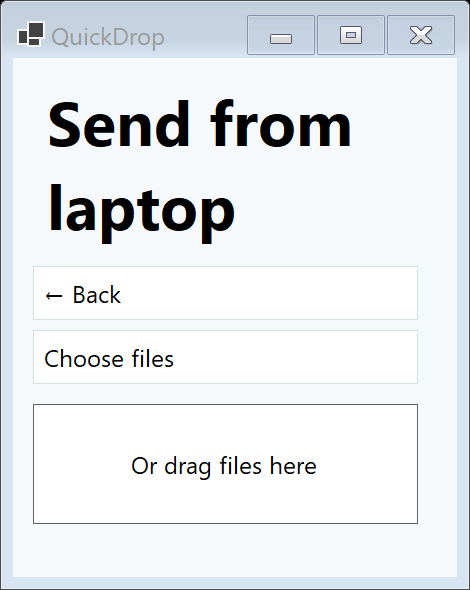
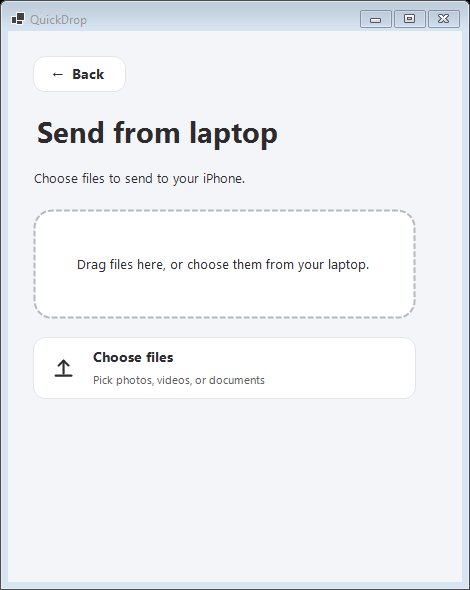
Polish transfer window to match QuickPlan styling

Changed region(s): [[0.0, 0.0, 0.983, 1.0], [0.3574, 0.7627, 0.6851, 0.8237], [0.2681, 0.7627, 0.3277, 0.8237]]

diff --git a/native/MainForm.cs b/native/MainForm.cs
@@ -11,13 +11,14 @@ internal sealed class MainForm : Form
     private const int HotkeyId = 0x5144;
     private const uint HotkeyMods = 0x0003; // Ctrl+Alt, distinct from QuickPlan's Alt+S.
     private const uint HotkeyKey = 0x51; // Q
-    private readonly FlowLayoutPanel content = new() { Dock = DockStyle.Fill, FlowDirection = FlowDirection.TopDown, WrapContents = false, AutoScroll = true, Padding = new Padding(20) };
+    private readonly FlowLayoutPanel content = new() { Dock = DockStyle.Fill, FlowDirection = FlowDirection.TopDown, WrapContents = false, AutoScroll = true, Padding = new Padding(24) };
     private readonly NotifyIcon tray;
     private readonly string settingsFile = Path.Combine(Environment.GetFolderPath(Environment.SpecialFolder.LocalApplicationData), "QuickDrop", "settings.json");
     private TransferServer? transfer;
     private string? previousFolder;
     private bool exitRequested;
     private Label status = new();
+    private string[] selectedFiles = [];
 
     [DllImport("user32.dll", SetLastError = true)] private static extern bool RegisterHotKey(IntPtr window, int id, uint modifiers, uint key);
     [DllImport("user32.dll")] private static extern bool UnregisterHotKey(IntPtr window, int id);
@@ -25,9 +26,10 @@ internal sealed class MainForm : Form
     public MainForm()
     {
         Text = "QuickDrop";
-        Width = 470; Height = 590; MinimumSize = new Size(400, 500);
+        Width = 470; Height = 590; MinimumSize = new Size(440, 520);
         StartPosition = FormStartPosition.CenterScreen;
-        BackColor = Color.FromArgb(246, 249, 251);
+        BackColor = Ui.Paper;
+        Font = new Font("Segoe UI", 10);
         AllowDrop = true;
         Controls.Add(content);
         try { previousFolder = JsonSerializer.Deserialize<LocalSettings>(File.ReadAllText(settingsFile))?.PreviousFolder; } catch { }
@@ -72,7 +74,7 @@ internal sealed class MainForm : Form
     private void ShowPopup() { if (WindowState == FormWindowState.Minimized) WindowState = FormWindowState.Normal; Show(); Activate(); }
     private string DefaultFolder => Path.Combine(Environment.GetFolderPath(Environment.SpecialFolder.MyDocuments), "QuickDrop", "sentFiles");
 
-    private void Clear(string heading)
+    private void Clear(string heading, bool back = false)
     {
         foreach (Control old in content.Controls.Cast<Control>().ToArray())
         {
@@ -80,61 +82,79 @@ internal sealed class MainForm : Form
             old.Dispose();
         }
         content.Controls.Clear();
-        content.Controls.Add(new Label { Text = heading, Font = new Font(Font.FontFamily, 23, FontStyle.Bold), AutoSize = true, Margin = new Padding(0, 0, 0, 20) });
-        status = new Label { AutoSize = true, MaximumSize = new Size(385, 0), ForeColor = Color.FromArgb(100, 40, 50), Margin = new Padding(0, 15, 0, 0) };
+        if (back) AddButton("←  Back", ShowHome, Ui.White, compact: true, height: 38, width: 95, margin: new Padding(0, 0, 0, 18));
+        content.Controls.Add(new Label { Text = heading, Font = new Font("Segoe UI", 22, FontStyle.Bold), ForeColor = Ui.Ink, AutoSize = true, Margin = new Padding(0, 0, 0, 12) });
+        status = new Label { AutoSize = true, MaximumSize = new Size(380, 0), ForeColor = Color.FromArgb(130, 55, 60), Margin = new Padding(0, 15, 0, 0), Font = new Font("Segoe UI", 9) };
     }
 
-    private Button Button(string label, Action action)
+    private TileButton AddButton(string label, Action action, Color fill, string subtitle = "", string icon = "", bool compact = false, int height = 76, int width = 385, Padding? margin = null)
     {
-        var button = new Button { Text = label, Width = 385, Height = 54, TextAlign = ContentAlignment.MiddleLeft, BackColor = Color.White, FlatStyle = FlatStyle.Flat, Margin = new Padding(0, 0, 0, 10) };
-        button.FlatAppearance.BorderColor = Color.FromArgb(210, 225, 230);
+        var button = new TileButton { Text = label, Width = width, Height = height, Fill = fill, Subtitle = subtitle, IconName = icon, Compact = compact, Margin = margin ?? new Padding(0, 0, 0, 12) };
         button.Click += (_, _) => action();
         content.Controls.Add(button);
         return button;
     }
+
+    private void AddCopy(string text, int bottom = 20)
+        => content.Controls.Add(new Label { Text = text, Font = new Font("Segoe UI", 10), ForeColor = Ui.Ink, AutoSize = true, MaximumSize = new Size(380, 0), Margin = new Padding(0, 0, 0, bottom) });
 
     private void SetStatus(string text) { if (IsDisposed) return; status.Text = text; }
 
     private void ShowHome()
     {
         Clear("QuickDrop");
-        content.Controls.Add(new Label { Text = "Send files between this laptop and an iPhone on the same Wi-Fi. Ctrl+Alt+Q opens QuickDrop.", AutoSize = true, MaximumSize = new Size(380, 0), Margin = new Padding(0, 0, 0, 22) });
-        Button("Send from iPhone", ShowReceiveChoices);
-        Button("Send from laptop", ShowSendChoices);
-        var startup = new CheckBox { Text = "Start with Windows", AutoSize = true, Checked = StartsWithWindows(), Margin = new Padding(0, 15, 0, 0) };
+        AddCopy("Move files between your laptop and iPhone. Choose a direction to get started.", 20);
+        AddButton("Send from iPhone", ShowReceiveChoices, Ui.Sage, "Scan a QR code and upload files", "phone");
+        AddButton("Send from laptop", ShowSendChoices, Ui.Ultra, "Choose files, then scan to download", "laptop");
+        var startup = new CheckBox { Text = "Start with Windows", AutoSize = true, Checked = StartsWithWindows(), Margin = new Padding(2, 14, 0, 0), ForeColor = Ui.Ink };
         startup.CheckedChanged += (_, _) => SetStartup(startup.Checked);
         content.Controls.Add(startup);
+        AddCopy("Ctrl+Alt+Q opens QuickDrop · Same Wi-Fi required", 0);
         content.Controls.Add(status);
     }
 
     private void ShowReceiveChoices()
     {
-        Clear("Send from iPhone");
-        Button("← Back", ShowHome);
-        Button($"Default place  ·  {DefaultFolder}", () => _ = ReceiveAsync(DefaultFolder));
-        if (previousFolder is not null) Button($"Previous place  ·  {previousFolder}", () => _ = ReceiveAsync(previousFolder));
-        Button("New place…", () => {
+        Clear("Send from iPhone", back: true);
+        AddCopy("Where should the files go?", 14);
+        AddButton("Default place", () => _ = ReceiveAsync(DefaultFolder), Ui.Sage, DefaultFolder, "download");
+        if (previousFolder is not null) AddButton("Previous place", () => _ = ReceiveAsync(previousFolder), Ui.White, previousFolder, "download");
+        AddButton("New place", () => {
             using var picker = new FolderBrowserDialog { Description = "Choose where iPhone files save", UseDescriptionForTitle = true, SelectedPath = previousFolder ?? DefaultFolder };
             if (picker.ShowDialog(this) == DialogResult.OK) _ = ReceiveAsync(picker.SelectedPath);
-        });
+        }, Ui.White, "Choose a folder on this laptop", "download");
         content.Controls.Add(status);
     }
 
     private void ShowSendChoices()
     {
-        Clear("Send from laptop");
-        Button("← Back", ShowHome);
-        Button("Choose files", () => {
-            using var picker = new OpenFileDialog { Multiselect = true, Title = "Choose files to send" };
-            if (picker.ShowDialog(this) == DialogResult.OK) _ = SendAsync(picker.FileNames);
-        });
-        var dropArea = new Panel { Width = 385, Height = 120, BackColor = Color.White, BorderStyle = BorderStyle.FixedSingle, Margin = new Padding(0, 10, 0, 0) };
-        var hint = new Label { Text = "Or drag files here", TextAlign = ContentAlignment.MiddleCenter, Dock = DockStyle.Fill };
+        selectedFiles = [];
+        ShowSendSelection();
+    }
+
+    private void ShowSendSelection()
+    {
+        Clear("Send from laptop", back: true);
+        AddCopy("Choose files to send to your iPhone.", 16);
+        var dropArea = new DropTarget { Width = 385, Height = 112, Margin = new Padding(0, 0, 0, 16) };
         AttachDrop(dropArea);
-        AttachDrop(hint);
-        dropArea.Controls.Add(hint);
         content.Controls.Add(dropArea);
+        AddButton("Choose files", () => {
+            using var picker = new OpenFileDialog { Multiselect = true, Title = "Choose files to send" };
+            if (picker.ShowDialog(this) == DialogResult.OK) SelectFiles(picker.FileNames);
+        }, Ui.White, "Pick photos, videos, or documents", "upload", compact: true, height: 64);
+        if (selectedFiles.Length > 0)
+        {
+            AddCopy(selectedFiles.Length == 1 ? Path.GetFileName(selectedFiles[0]) : $"{selectedFiles.Length} files selected", 8);
+            AddButton("Create QR code", () => _ = SendAsync(selectedFiles), Ui.Ultra, "Scan it to download on your iPhone", "phone", compact: true, height: 66);
+        }
         content.Controls.Add(status);
+    }
+
+    private void SelectFiles(string[] paths)
+    {
+        selectedFiles = paths.Where(File.Exists).Distinct(StringComparer.OrdinalIgnoreCase).ToArray();
+        ShowSendSelection();
     }
 
     private void AttachDrop(Control control)
@@ -143,7 +163,7 @@ internal sealed class MainForm : Form
         control.DragEnter += (_, e) => { if (e.Data?.GetDataPresent(DataFormats.FileDrop) == true) e.Effect = DragDropEffects.Copy; };
         control.DragDrop += (_, e) => {
             var paths = e.Data?.GetData(DataFormats.FileDrop) as string[];
-            if (paths is { Length: > 0 }) _ = SendAsync(paths.Where(File.Exists).ToArray());
+            if (paths is { Length: > 0 }) SelectFiles(paths);
         };
     }
 
@@ -185,15 +205,15 @@ internal sealed class MainForm : Form
 
     private void ShowQr(string url, string description)
     {
-        Clear("Scan with iPhone");
-        Button("← Back", ShowHome);
+        Clear("Scan with iPhone", back: true);
+        AddCopy("Open your iPhone camera and scan this code.", 10);
         using var data = QRCodeGenerator.GenerateQrCode(url, QRCodeGenerator.ECCLevel.Q);
         using var code = new PngByteQRCode(data);
         using var stream = new MemoryStream(code.GetGraphic(7));
         using var decoded = new Bitmap(stream);
-        content.Controls.Add(new PictureBox { Image = new Bitmap(decoded), Width = 270, Height = 270, SizeMode = PictureBoxSizeMode.Zoom, Margin = new Padding(45, 5, 0, 12) });
-        content.Controls.Add(new Label { Text = description, AutoSize = true, MaximumSize = new Size(380, 0) });
-        content.Controls.Add(new Label { Text = "The link expires in 10 minutes. Keep the laptop awake.", AutoSize = true, MaximumSize = new Size(380, 0) });
+        content.Controls.Add(new PictureBox { Image = new Bitmap(decoded), Width = 286, Height = 286, SizeMode = PictureBoxSizeMode.Zoom, BackColor = Ui.White, Margin = new Padding(48, 0, 0, 14), Padding = new Padding(8) });
+        AddCopy(description, 6);
+        AddCopy("The link expires in 10 minutes. Keep the laptop awake.", 0);
         content.Controls.Add(status);
     }
 

diff --git a/native/Ui.cs b/native/Ui.cs
@@ -1,0 +1,130 @@
+using System.Drawing.Drawing2D;
+using System.ComponentModel;
+
+namespace QuickDrop;
+
+internal static class Ui
+{
+    internal static readonly Color Paper = Color.FromArgb(244, 245, 248);
+    internal static readonly Color Ink = Color.FromArgb(44, 44, 46);
+    internal static readonly Color Sage = Color.FromArgb(181, 201, 185);
+    internal static readonly Color Ultra = Color.FromArgb(153, 168, 212);
+    internal static readonly Color White = Color.White;
+
+    internal static GraphicsPath Rounded(RectangleF rectangle, float radius)
+    {
+        float diameter = radius * 2;
+        var path = new GraphicsPath();
+        path.AddArc(rectangle.X, rectangle.Y, diameter, diameter, 180, 90);
+        path.AddArc(rectangle.Right - diameter, rectangle.Y, diameter, diameter, 270, 90);
+        path.AddArc(rectangle.Right - diameter, rectangle.Bottom - diameter, diameter, diameter, 0, 90);
+        path.AddArc(rectangle.X, rectangle.Bottom - diameter, diameter, diameter, 90, 90);
+        path.CloseFigure();
+        return path;
+    }
+}
+
+internal sealed class TileButton : Control
+{
+    [DesignerSerializationVisibility(DesignerSerializationVisibility.Hidden)] internal Color Fill { get; set; } = Ui.White;
+    [DesignerSerializationVisibility(DesignerSerializationVisibility.Hidden)] internal Color Foreground { get; set; } = Ui.Ink;
+    [DesignerSerializationVisibility(DesignerSerializationVisibility.Hidden)] internal string Subtitle { get; set; } = "";
+    [DesignerSerializationVisibility(DesignerSerializationVisibility.Hidden)] internal string IconName { get; set; } = "";
+    [DesignerSerializationVisibility(DesignerSerializationVisibility.Hidden)] internal bool Compact { get; set; }
+    private bool hovering;
+
+    public TileButton()
+    {
+        SetStyle(ControlStyles.AllPaintingInWmPaint | ControlStyles.UserPaint | ControlStyles.OptimizedDoubleBuffer | ControlStyles.Selectable, true);
+        TabStop = true;
+        AccessibleRole = AccessibleRole.PushButton;
+        Cursor = Cursors.Hand;
+        Height = 76;
+    }
+
+    protected override void OnMouseEnter(EventArgs e) { hovering = true; Invalidate(); base.OnMouseEnter(e); }
+    protected override void OnMouseLeave(EventArgs e) { hovering = false; Invalidate(); base.OnMouseLeave(e); }
+    protected override void OnKeyDown(KeyEventArgs e)
+    {
+        if (e.KeyCode is Keys.Enter or Keys.Space) { OnClick(EventArgs.Empty); e.Handled = true; }
+        base.OnKeyDown(e);
+    }
+
+    protected override void OnPaint(PaintEventArgs e)
+    {
+        var g = e.Graphics;
+        g.SmoothingMode = SmoothingMode.AntiAlias;
+        var rectangle = new RectangleF(1, 1, Width - 3, Height - 3);
+        using var shape = Ui.Rounded(rectangle, Compact ? 12 : 17);
+        Color fill = hovering ? ControlPaint.Light(Fill, .08f) : Fill;
+        using var brush = new SolidBrush(fill);
+        g.FillPath(brush, shape);
+        if (Fill == Ui.White) { using var pen = new Pen(Color.FromArgb(225, 229, 234), 1); g.DrawPath(pen, shape); }
+        int textX = IconName.Length > 0 ? 59 : 18;
+        if (IconName.Length > 0) DrawIcon(g, IconName, new Rectangle(19, Height / 2 - 12, 24, 24));
+        using var font = new Font("Segoe UI", Compact ? 10.5f : 11.5f, FontStyle.Bold);
+        using var ink = new SolidBrush(Foreground);
+        int titleY = Subtitle.Length > 0 ? 11 : (Height - font.Height) / 2;
+        g.DrawString(Text, font, ink, new RectangleF(textX, titleY, Width - textX - 12, font.Height + 4));
+        if (Subtitle.Length > 0)
+        {
+            using var secondaryFont = new Font("Segoe UI", 8.5f);
+            using var secondaryInk = new SolidBrush(Color.FromArgb(210, Foreground));
+            g.DrawString(Subtitle, secondaryFont, secondaryInk, new RectangleF(textX, titleY + 25, Width - textX - 12, Height - titleY - 28));
+        }
+        if (Focused) ControlPaint.DrawFocusRectangle(g, Rectangle.Inflate(Rectangle.Round(rectangle), -5, -5));
+    }
+
+    private void DrawIcon(Graphics g, string icon, Rectangle area)
+    {
+        using var pen = new Pen(Foreground, 2.1f) { StartCap = LineCap.Round, EndCap = LineCap.Round, LineJoin = LineJoin.Round };
+        if (icon == "phone")
+        {
+            g.DrawRectangle(pen, area.X + 6, area.Y + 1, 12, 22);
+            g.DrawLine(pen, area.X + 10, area.Y + 19, area.X + 14, area.Y + 19);
+        }
+        else if (icon == "laptop")
+        {
+            g.DrawRectangle(pen, area.X + 3, area.Y + 3, 18, 14);
+            g.DrawLine(pen, area.X, area.Y + 21, area.X + 24, area.Y + 21);
+        }
+        else if (icon == "upload")
+        {
+            g.DrawLine(pen, area.X + 12, area.Y + 4, area.X + 12, area.Y + 17);
+            g.DrawLine(pen, area.X + 7, area.Y + 9, area.X + 12, area.Y + 4);
+            g.DrawLine(pen, area.X + 17, area.Y + 9, area.X + 12, area.Y + 4);
+            g.DrawLine(pen, area.X + 4, area.Y + 19, area.X + 20, area.Y + 19);
+        }
+        else if (icon == "download")
+        {
+            g.DrawLine(pen, area.X + 12, area.Y + 4, area.X + 12, area.Y + 17);
+            g.DrawLine(pen, area.X + 7, area.Y + 12, area.X + 12, area.Y + 17);
+            g.DrawLine(pen, area.X + 17, area.Y + 12, area.X + 12, area.Y + 17);
+            g.DrawLine(pen, area.X + 4, area.Y + 21, area.X + 20, area.Y + 21);
+        }
+    }
+}
+
+internal sealed class DropTarget : Control
+{
+    public DropTarget()
+    {
+        SetStyle(ControlStyles.AllPaintingInWmPaint | ControlStyles.UserPaint | ControlStyles.OptimizedDoubleBuffer, true);
+        Height = 102;
+        AllowDrop = true;
+    }
+
+    protected override void OnPaint(PaintEventArgs e)
+    {
+        var g = e.Graphics;
+        g.SmoothingMode = SmoothingMode.AntiAlias;
+        var rectangle = new RectangleF(2, 2, Width - 5, Height - 5);
+        using var shape = Ui.Rounded(rectangle, 17);
+        using var white = new SolidBrush(Ui.White);
+        using var border = new Pen(Color.FromArgb(180, 186, 190), 2) { DashStyle = DashStyle.Dash };
+        g.FillPath(white, shape);
+        g.DrawPath(border, shape);
+        using var font = new Font("Segoe UI", 9.5f);
+        TextRenderer.DrawText(g, "Drag files here, or choose them from your laptop.", font, Rectangle.Round(rectangle), Ui.Ink, TextFormatFlags.HorizontalCenter | TextFormatFlags.VerticalCenter | TextFormatFlags.WordBreak);
+    }
+}
